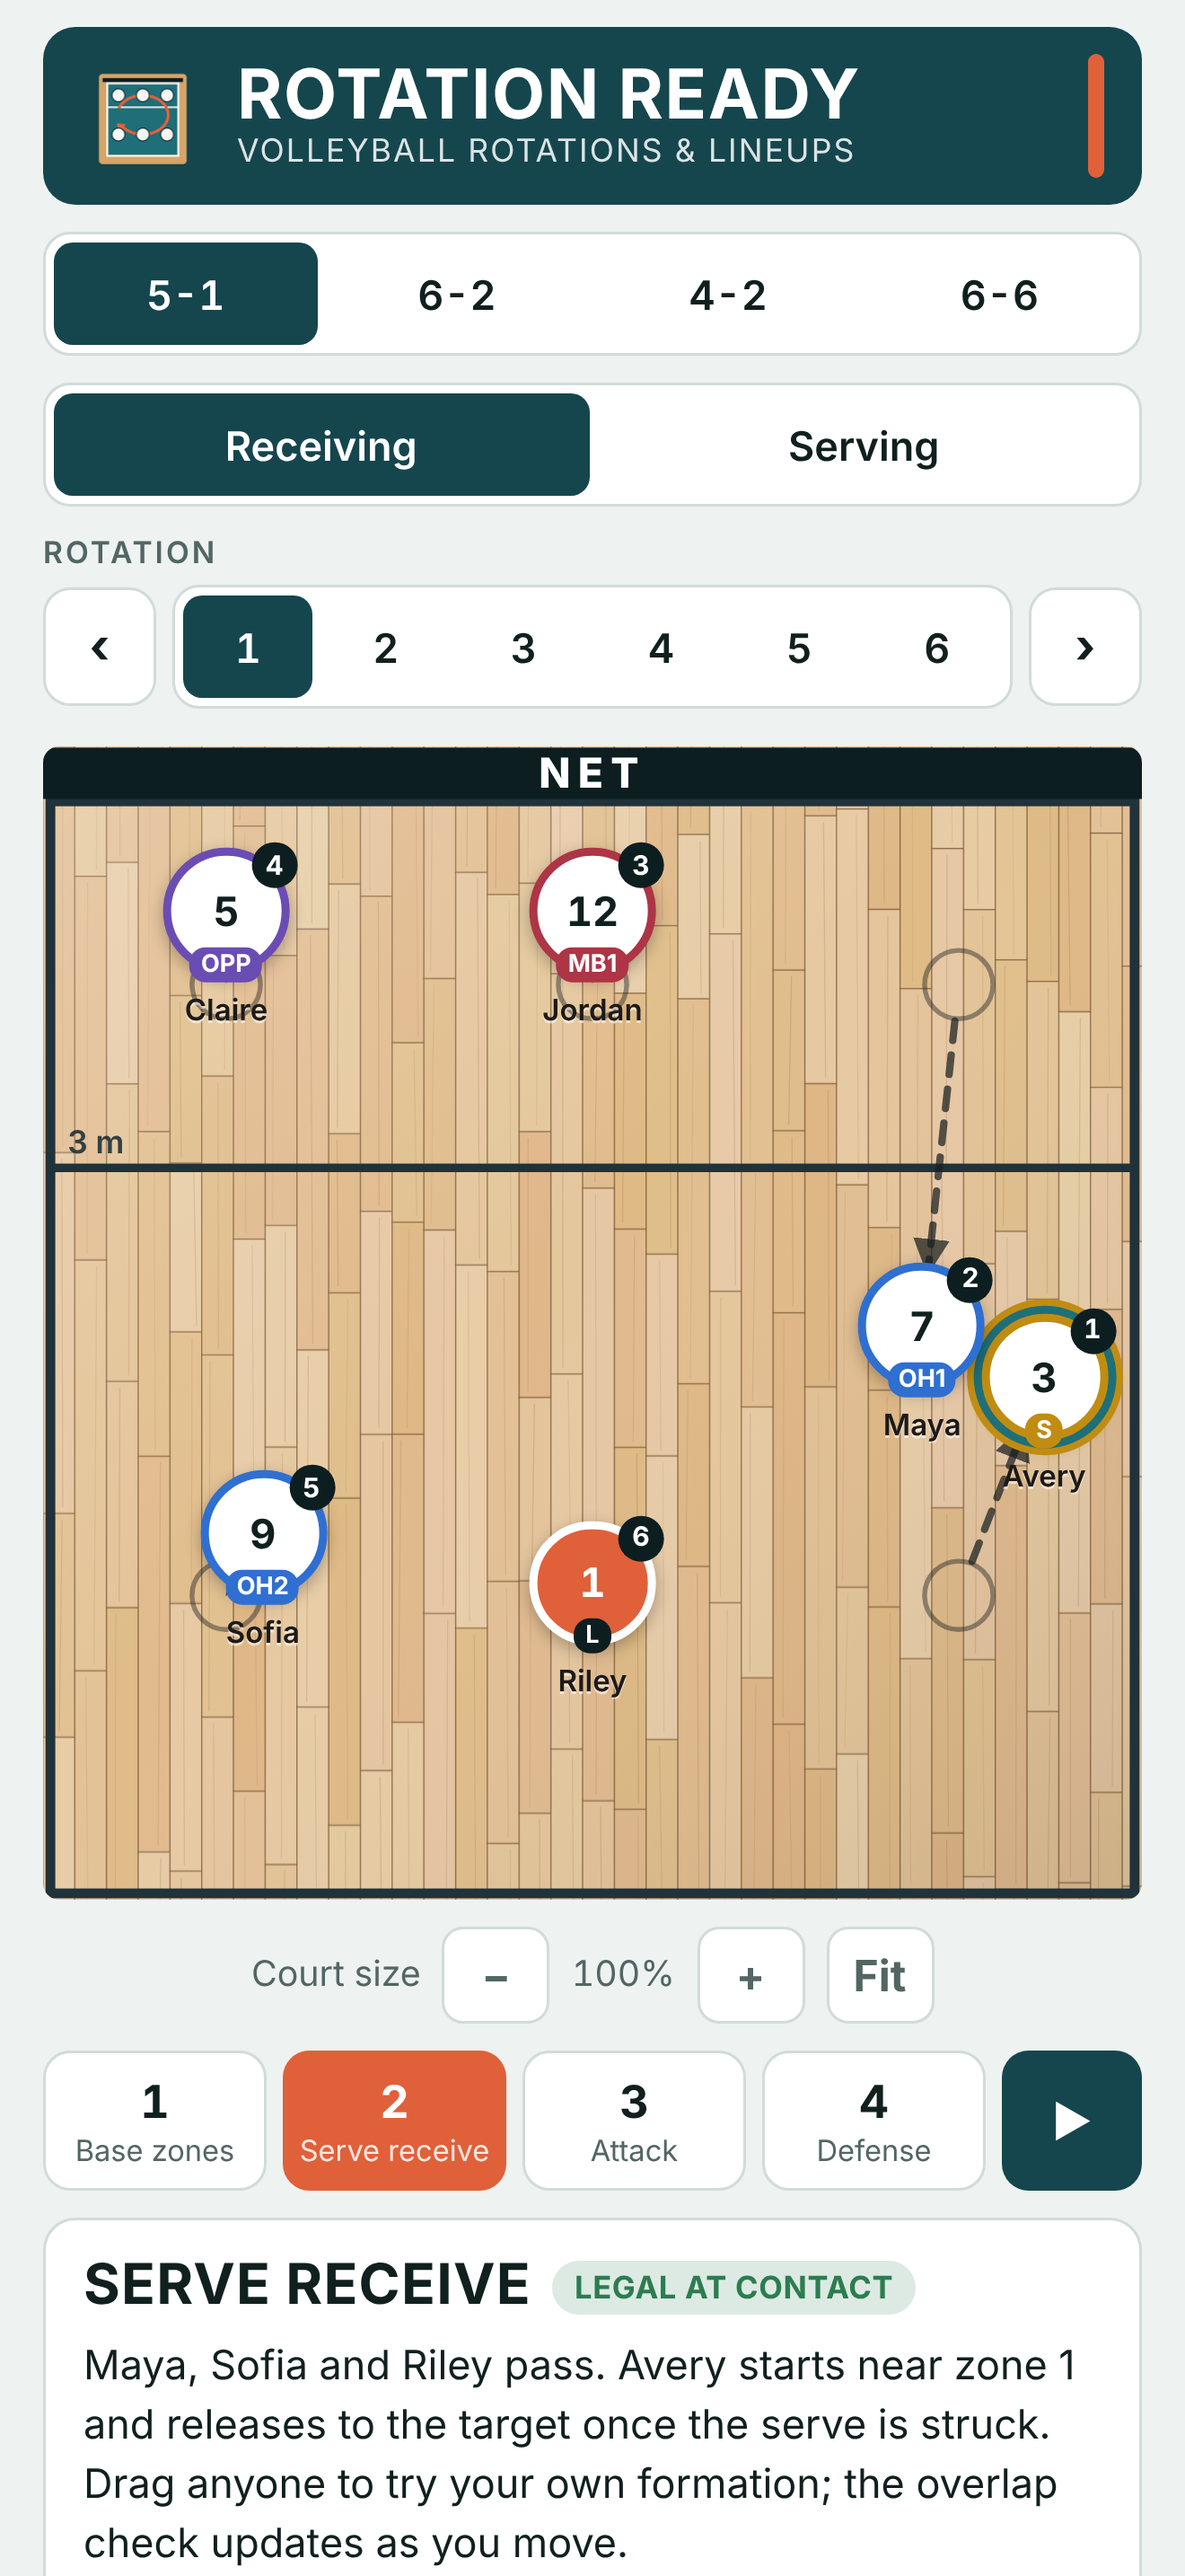
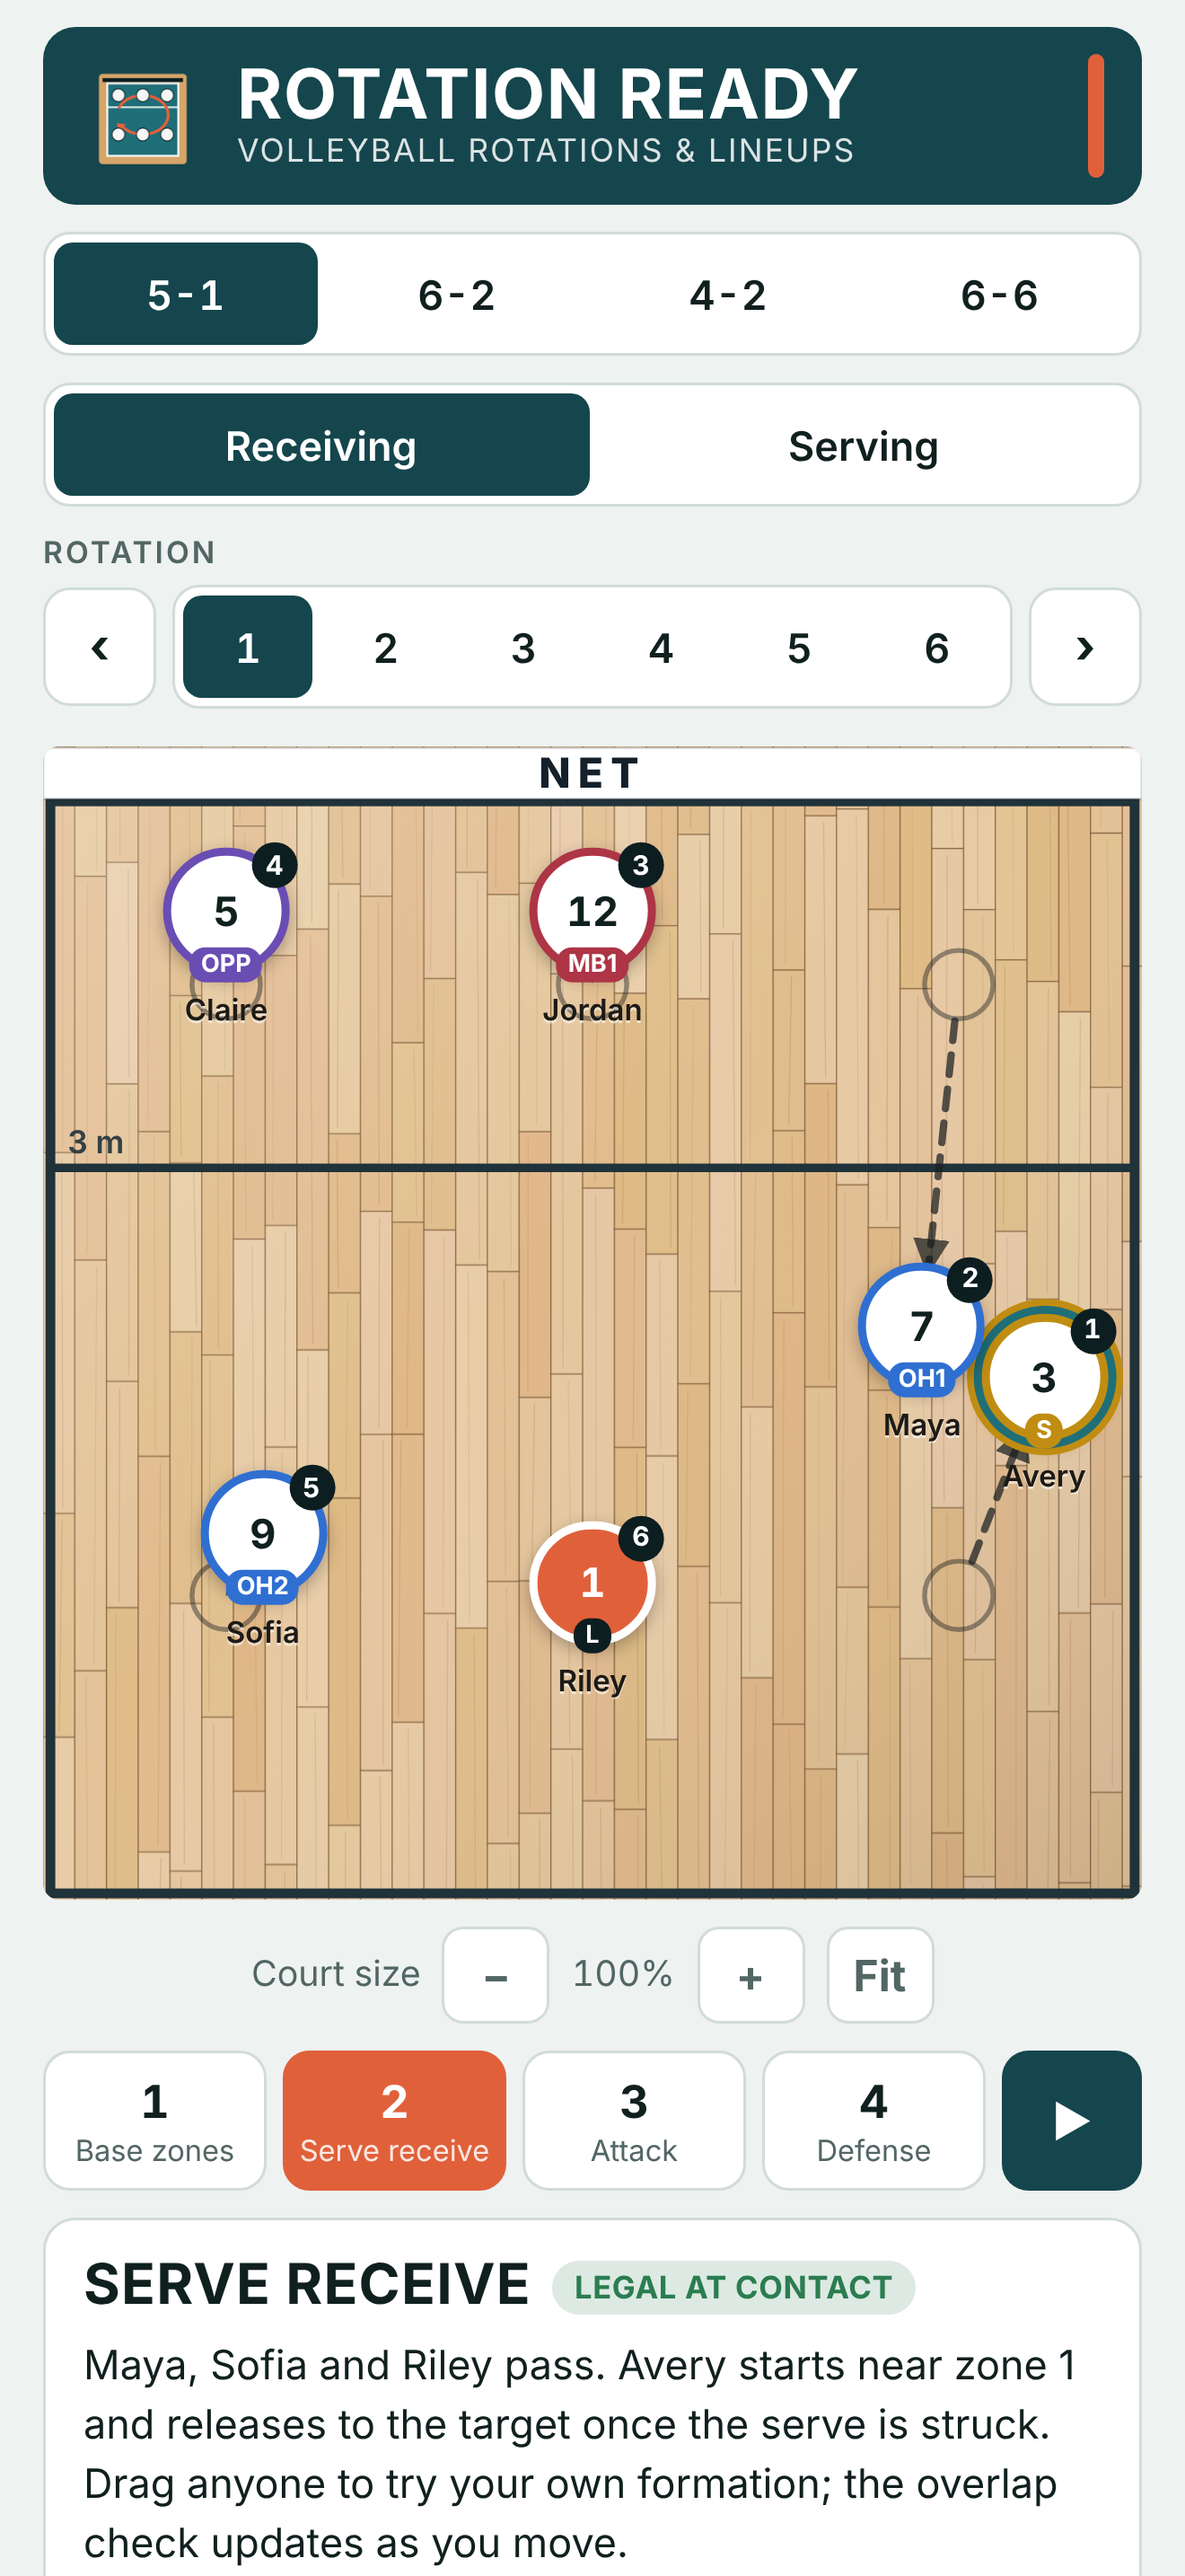
White net
Claude-Session: https://claude.ai/code/session_01XjvadqE4PRY1XXpJhyDyr2

Changed region(s): [[0.0311, 0.2793, 0.9629, 0.3103]]

diff --git a/www/index.html b/www/index.html
@@ -110,7 +110,8 @@ h1{font-family:var(--display);font-weight:700;font-size:1.6rem;letter-spacing:.0
 .court.wood .c-txt{fill:var(--court-line);opacity:.9}
 .court.wood .nm{color:#1d1a16;text-shadow:0 1px 0 rgba(255,255,255,.55)}
 .tok.off .nm,.court.wood .tok.off .nm{color:var(--ink);text-shadow:none} .c-line{stroke:var(--court-line);fill:none}
-.c-net{fill:var(--net)} .c-zone{fill:var(--court-line);opacity:.18;font-family:var(--display);font-weight:700}
+.c-net{fill:#ffffff;stroke:rgba(0,0,0,.18);stroke-width:.02}
+.c-nettxt{fill:#14202a;font-family:var(--body);font-weight:800} .c-zone{fill:var(--court-line);opacity:.18;font-family:var(--display);font-weight:700}
 .c-txt{fill:var(--court-line);opacity:.8;font-family:var(--body);font-weight:600}
 .arrows line{stroke:var(--arrow);stroke-width:.06;stroke-dasharray:.16 .12;stroke-linecap:round}
 .arrows .ghost{fill:none;stroke:var(--arrow);stroke-width:.04;opacity:.6}
@@ -214,7 +215,7 @@ h1{font-family:var(--display);font-weight:700;font-size:1.6rem;letter-spacing:.0
           <line class="c-line" x1="0.06" y1="3" x2="8.94" y2="3" stroke-width="0.07"/>
           <rect class="c-net" x="0" y="-0.44" width="9" height="0.42"/>
           <text class="c-txt" x="0.2" y="2.88" font-size="0.26">3 m</text>
-          <text class="c-txt" x="4.5" y="-0.11" font-size="0.34" text-anchor="middle" letter-spacing="0.06" style="fill:#fff;opacity:1;font-weight:800">NET</text>
+          <text class="c-nettxt" x="4.5" y="-0.11" font-size="0.34" text-anchor="middle" letter-spacing="0.06">NET</text>
           <g id="zoneNums"></g>
         </svg>
         <svg class="arrows" id="arrows" viewBox="0 -0.45 9 9.45" preserveAspectRatio="none" aria-hidden="true">
